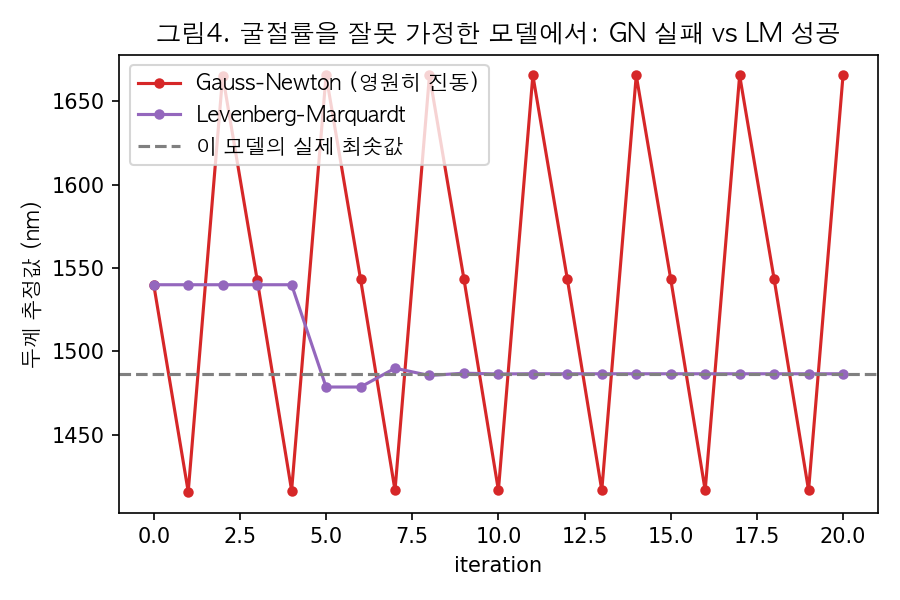
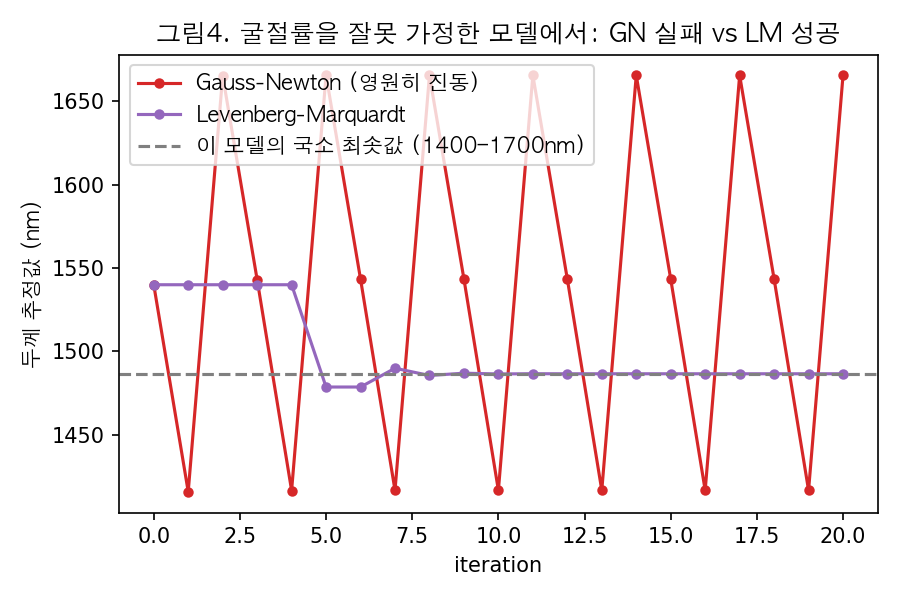
fix(post): optimization-levenberg-marquardt — 1.02 모델의 국소 최솟값, GN 실패 원인, τ 자릿수 등 7건 정정
1. 1.02 모델의 "실제 최솟값" 1486.6 nm → 시작점 근처의 국소 최솟값(1400–1700 nm 구간 최솟값).
   코드는 1400–1700 nm만 훑었고, 0–3000 nm에서는 137.4·1861.2·2135.5 nm 등 더 낮은 극소가 있다.
   그림4 범례와 코드 주석을 고쳐 다시 만들었다.
2. GN 실패 원인: 분모가 작은 데다 잔차가 커서 버린 항 Σr r''이 분모의 약 3배(S/A=2.99)로
   근사 Hessian을 압도한다. GN 사상의 고정점 도함수 −3(Madsen et al. 2004 Example 3.3).
3. 간섭 콘트라스트가 사라지는 곳은 공기/SiO2 경계의 반사(0.035 → 약 1e-4)다(Fresnel 계산).
4. τ 범위 "세 자릿수" → "다섯 자릿수(1e-3~1e2)"(같은 글의 표).
5. μ 감소 "1/3씩" → "1/3배", 이유는 ρ≳0.94라 max{1/3, 1−(2ρ−1)³}의 하한이 걸리기 때문.
6. μ→∞ 극한: 기울기의 1/μ배(학습률 α=1/μ)(Madsen p.25).
7. 이득비 식의 F와 L 정의 추가(Madsen 식 2.14, 3.7b).

2편 회고의 "Jacobian 특이"는 2편 쪽에 조건을 더해 맞췄으므로 그대로 둔다.
바뀐 그림: fig4-gn-failure-lm-rescue.png 한·영(범례만).

Changed region(s): [[0.2489, 0.09, 0.6533, 0.3]]

diff --git a/_code/optimization-levenberg-marquardt/generate_figures.py b/_code/optimization-levenberg-marquardt/generate_figures.py
@@ -48,7 +48,7 @@ LABELS = {
         "gn": "Gauss-Newton", "lm": r"Levenberg-Marquardt ($\tau$=1e-6)",
         "fig3": "그림3. 네 방법 비교 (d0=1540nm)",
         "gn_cycle": "Gauss-Newton (영원히 진동)", "lm_plain": "Levenberg-Marquardt",
-        "wrong_floor": "이 모델의 실제 최솟값",
+        "wrong_floor": "이 모델의 국소 최솟값 (1400–1700nm)",
         "fig4": "그림4. 굴절률을 잘못 가정한 모델에서: GN 실패 vs LM 성공",
     },
     "en": {
@@ -65,7 +65,7 @@ LABELS = {
         "gn": "Gauss-Newton", "lm": r"Levenberg-Marquardt ($\tau$=1e-6)",
         "fig3": "Fig 3. The four methods compared (d0=1540nm)",
         "gn_cycle": "Gauss-Newton (cycles forever)", "lm_plain": "Levenberg-Marquardt",
-        "wrong_floor": "true minimum of this model",
+        "wrong_floor": "local minimum of this model (1400–1700 nm)",
         "fig4": "Fig 4. With a wrong refractive index: GN fails, LM rescues",
     },
 }
@@ -169,7 +169,7 @@ N_ITER_FAIL = 20
 d_gn_wrong = gauss_newton_wrong(initial_guess, N_ITER_FAIL)
 d_lm_wrong = levenberg_marquardt_wrong(initial_guess, N_ITER_FAIL, tau=1e-3)
 
-# 이 (잘못된) 모델의 실제 최솟값 위치를 촘촘한 스캔으로 찾는다.
+# 이 (잘못된) 모델의 1400–1700nm 구간의 최솟값 위치를 촘촘한 스캔으로 찾는다.
 _ds = np.linspace(1400, 1700, 3000)
 _Js = np.array([objective_wrong(d) for d in _ds])
 wrong_floor_d = float(_ds[np.argmin(_Js)])

diff --git a/_posts/2026-09-11-optimization-levenberg-marquardt-en.md b/_posts/2026-09-11-optimization-levenberg-marquardt-en.md
@@ -25,7 +25,7 @@ With thickness as the only parameter, $J^TJ$ is the scalar $A=\sum_i r_i'^2$ and
 
 $$ h_{lm} = -\frac{g}{A+\mu}, \qquad g = \sum_i r_i' r_i $$
 
-The role of $\mu$ is clearest at the extremes. As $\mu \to 0$, $h_{lm}$ becomes exactly the Gauss-Newton step. As $\mu \to \infty$, $A$ becomes negligible and $h_{lm} \approx -g/\mu$ — steepest descent, moving opposite the gradient by $1/\mu$. A single parameter serves as the handle that slides between "safe but slow" and "fast but vulnerable to curvature."
+The role of $\mu$ is clearest at the extremes. As $\mu \to 0$, $h_{lm}$ becomes exactly the Gauss-Newton step. As $\mu \to \infty$, $A$ becomes negligible and $h_{lm} \approx -g/\mu$ — steepest descent, a step of $1/\mu$ times the gradient in the opposite direction (post 1's learning rate $\alpha=1/\mu$). A single parameter serves as the handle that slides between "safe but slow" and "fast but vulnerable to curvature."
 
 The initial damping is set as $\mu_0 = \tau \cdot A$. The scale factor $\tau$ is chosen by the user: small ($10^{-6}$) if the initial value is believed to be close to the solution, larger ($10^{-3}$, or 1) if it is not — the recommendation of Madsen and co-authors.
 
@@ -66,12 +66,12 @@ That transition happens automatically, driven by a gain ratio $\rho$ computed at
 
 $$ \rho = \frac{F(d) - F(d+h_{lm})}{L(0) - L(h_{lm})}, \qquad L(0)-L(h_{lm}) = \frac{1}{2}h_{lm}(\mu h_{lm} - g) $$
 
-The denominator is the reduction predicted by the local quadratic model; the numerator is the reduction actually achieved. If $\rho>0$, the model is holding up: the step is accepted and $\mu$ is reduced by $\mu \leftarrow \mu \cdot \max\{1/3,\ 1-(2\rho-1)^3\}$. If $\rho \le 0$, the step is rejected, $\mu \leftarrow \nu\mu$ enlarges the damping, and $\nu$ is doubled. Marquardt's original rule simply multiplied and divided, which produced flutter; the rule used here, due to Nielsen, damps that oscillation.
+Here $F(d)=\frac{1}{2}\sum_i r_i^2$ is the objective $J(d)$, and $L(h)=F(d)+gh+\frac{1}{2}Ah^2$ is the local quadratic model obtained by linearizing the residuals. The denominator is the reduction predicted by the local quadratic model; the numerator is the reduction actually achieved. If $\rho>0$, the model is holding up: the step is accepted and $\mu$ is reduced by $\mu \leftarrow \mu \cdot \max\{1/3,\ 1-(2\rho-1)^3\}$. If $\rho \le 0$, the step is rejected, $\mu \leftarrow \nu\mu$ enlarges the damping, and $\nu$ is doubled. Marquardt's original rule simply multiplied and divided, which produced flutter; the rule used here, due to Nielsen, damps that oscillation.
 
 <img src="/assets/img/posts/optimization-levenberg-marquardt/en/fig2-mu-adaptation.png" alt="Adaptation of mu driven by the gain ratio" width="600">
 _Fig 2. Adaptation of μ driven by the gain ratio_
 
-In both cases $\mu$ shrinks by exactly a factor of 1/3 at every accepted step — a straight line on the log scale — because the local quadratic approximation fits well enough that $\rho$ stays close to 1. What happens after the $\tau=10^{-6}$ run (blue) reaches the noise floor is the interesting part. Once the objective $J$ stops decreasing, at the floor set by the noise, subsequent steps give $\rho \le 0$ and are rejected, and $\mu$ grows again by $\times2, \times4, \times8, \dots$ — the algorithm detecting that there is nothing left to reduce and turning conservative on its own.
+In both cases $\mu$ shrinks by exactly a factor of 1/3 at every accepted step — a straight line on the log scale — because the local quadratic approximation fits well enough that $\rho$ stays above about 0.94 (values above 1 included), where $\max\{1/3,\ 1-(2\rho-1)^3\}$ hits its floor of 1/3. What happens after the $\tau=10^{-6}$ run (blue) reaches the noise floor is the interesting part. Once the objective $J$ stops decreasing, at the floor set by the noise, subsequent steps give $\rho \le 0$ and are rejected, and $\mu$ grows again by $\times2, \times4, \times8, \dots$ — the algorithm detecting that there is nothing left to reduce and turning conservative on its own.
 
 ## 4. The four methods side by side
 
@@ -93,7 +93,7 @@ With $\tau$ small enough, LM traces a trajectory indistinguishable from Gauss-Ne
 
 ## 5. LM is not a cure-all — the basin problem remains
 
-Damping changes the conditioning of the normal equation, not the shape of the objective. The local-minimum basin problem seen in post 2 therefore survives in LM untouched. Restarting from around 1300 nm and 1690 nm, and varying $\tau$ across three orders of magnitude, LM converges to exactly the same neighbouring minima as GN.
+Damping changes the conditioning of the normal equation, not the shape of the objective. The local-minimum basin problem seen in post 2 therefore survives in LM untouched. Restarting from around 1300 nm and 1690 nm, and varying $\tau$ across five orders of magnitude ($10^{-3}$ to $10^{2}$), LM converges to exactly the same neighbouring minima as GN.
 
 | Initial value $d_0$ | Gauss-Newton | LM ($\tau=10^{-3}$) | LM ($\tau=1$) | LM ($\tau=100$) |
 |---|---|---|---|---|
@@ -104,9 +104,9 @@ Damping guarantees safe arrival at the minimum *within a basin*; which basin is 
 
 ## 6. A real failure case — assuming the wrong refractive index
 
-The theoretical limit of GN flagged in post 2 — failure when the residuals are large or the Jacobian near-singular — was reproduced deliberately. Suppose the fitting model assumes a refractive index of 1.02 for SiO2 instead of the actual 1.46. Being so close to air (1.0), that value all but erases the interference contrast at the SiO2/Si interface. Evaluating $\sum_i r_i'^2$ at $d=1490$ nm gives $4.34\times10^{-6}$ against $2.58\times10^{-3}$ for the correct model — smaller by a factor of about 595. The Jacobian has collapsed toward zero.
+The theoretical limit of GN flagged in post 2 — failure when the residuals are large or the Jacobian near-singular — was reproduced deliberately. Suppose the fitting model assumes a refractive index of 1.02 for SiO2 instead of the actual 1.46. Being so close to air (1.0), that value all but removes the reflection at the air/SiO2 interface (reflectance 0.035 → about $10^{-4}$), and with it the thin-film interference contrast. Evaluating $\sum_i r_i'^2$ at $d=1490$ nm gives $4.34\times10^{-6}$ against $2.58\times10^{-3}$ for the correct model — smaller by a factor of about 595. The Jacobian has collapsed toward zero.
 
-Running Gauss-Newton from $d_0=1540$ nm in this state, the estimate simply cycles among 1665.5 nm, 1543.4 nm and 1416.8 nm, showing no convergence at all over twenty steps. The denominator of the normal equation, $\sum_i r_i'^2$, is so small that every step overshoots badly. Levenberg-Marquardt under identical conditions converges steadily to the true minimum of this (wrong) model, $d\approx1486.6$ nm.
+Running Gauss-Newton from $d_0=1540$ nm in this state, the estimate simply cycles among 1665.5 nm, 1543.4 nm and 1416.8 nm, showing no convergence at all over twenty steps. The denominator of the normal equation, $\sum_i r_i'^2$, is tiny while the residuals stay large, so the discarded term $\sum_i r_i r_i''$ — about three times the denominator at this model's minimum — dominates the approximate Hessian and every step overshoots badly. Levenberg-Marquardt under identical conditions converges steadily to the local minimum of this (wrong) model nearest the start, $d\approx1486.6$ nm (the lowest point between 1400 and 1700 nm).
 
 <img src="/assets/img/posts/optimization-levenberg-marquardt/en/fig4-gn-failure-lm-rescue.png" alt="GN fails, LM succeeds" width="600">
 _Fig 4. With a wrongly assumed refractive index: GN fails, LM rescues_
